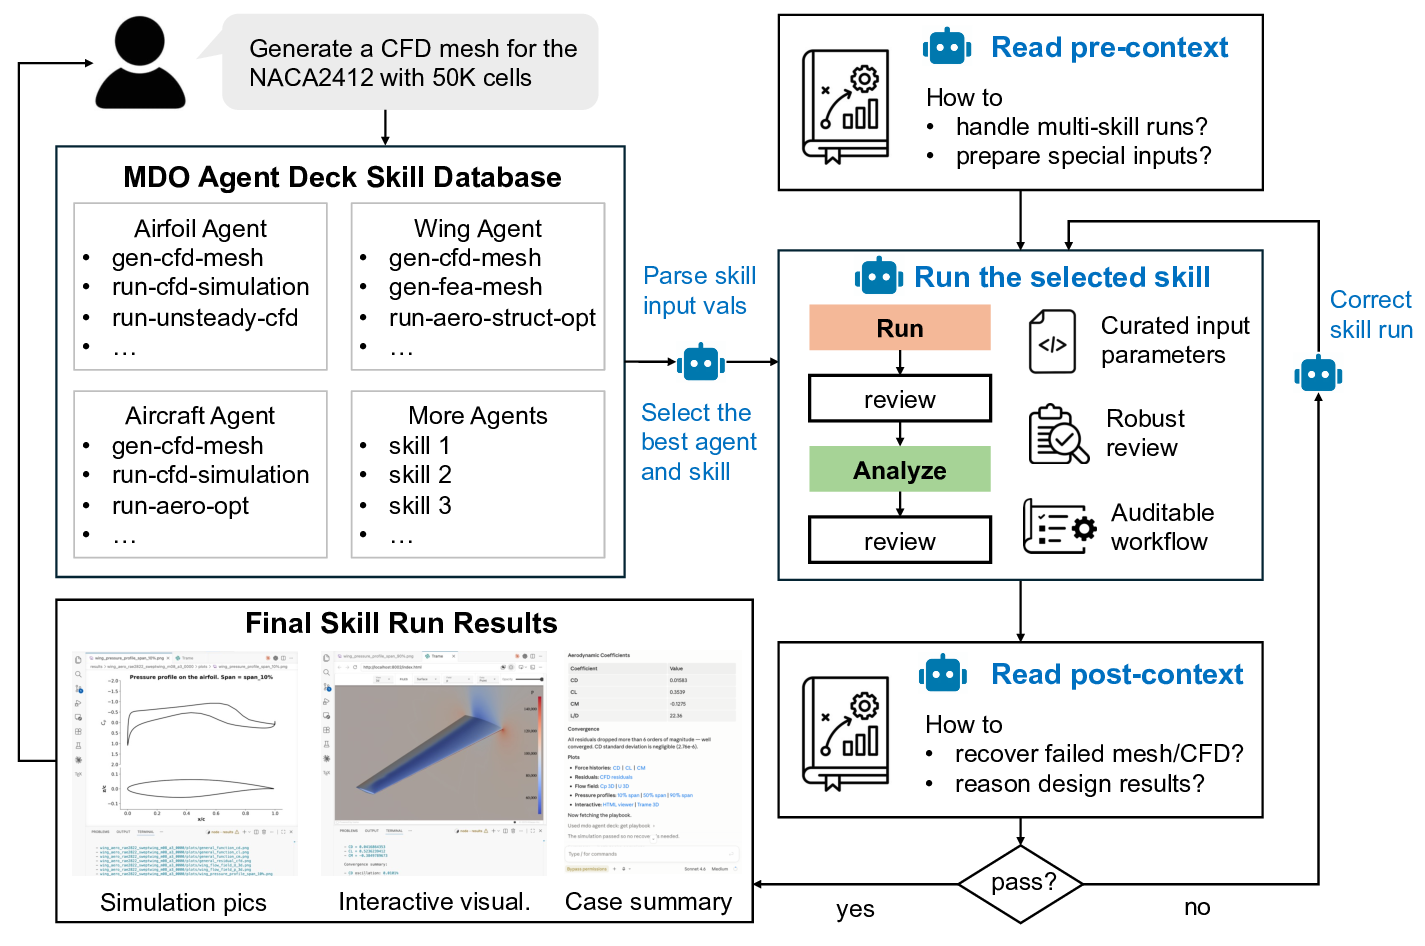
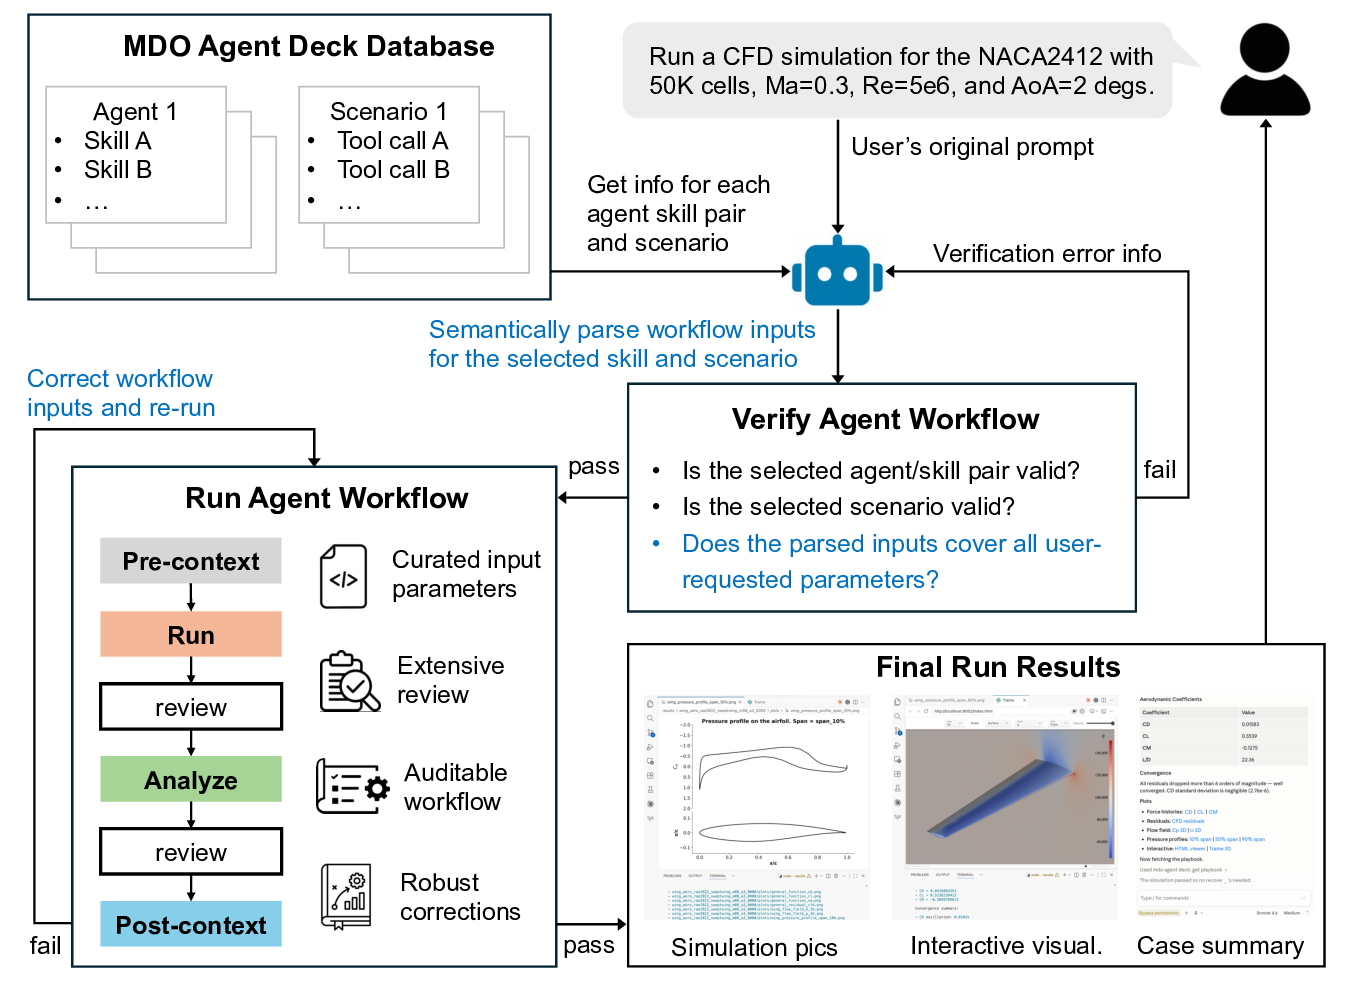
content update

Changed region(s): [[0.0, 0.0, 0.9956, 0.981], [0.9022, 0.0, 0.9956, 0.1533], [0.2178, 0.3679, 0.2489, 0.3985]]

diff --git a/pages/mydoc/mydoc_ai_agent_overview.md b/pages/mydoc/mydoc_ai_agent_overview.md
@@ -22,32 +22,26 @@ The framework is designed to be trustworthy for engineering using the following 
 
 ### How the Framework Works
 
-For each user request/prompt, the agent execution follows a pre-defined run sequence:
+The following figure illustrates the overall architecture of the agentic AI framework for aircraft aerodynamic and aerostructural design. The framework follows a fixed workflow from a user prompt to the final engineering result. Based on the user's prompt, the agent deck first selects the most relevant agent, skill, and scenario from the MDO Agent Deck database. Here we define domain-specific agents for narrowly scoped design problems involving airfoils, wings, and aircraft. Each agent is equipped with skills such as generating CFD meshes, running CFD simulations, and performing aerodynamic optimization. The scenario includes predefined workflows for common tasks, such as running one simulation with one skill, running multiple simulations with one skill, or running multiple simulations with prerequisite and downstream skills.
 
-- A user requests to run an engineering analysis or design case.
-- The MCP server identifies the best domain agent and skill for the user request.
-- It reads skill pre-context to better prepare the case, e.g., how to dynamically prepare input parameters
-- It semantically parses the input information from the user prompt into the skill's input values.
-- It creates a new isolated case folder and copies the pre-defined case configuration files from the selected agent.
-- It runs the selected skill following the **run->review->analyze->review** workflow. All the skill's predefined run commands are executed here.
-- It reads the skill post-context with additional evaluations and instructions to correct potential errors.
-- If everything passes, the final results, including PNG plots, an interactive visualization server, and a case summary, are sent back to the user.
+The agentic framework maximizes the use of predefined, deterministic steps while minimizing the agent's reasoning effort to maximize reliability. In an end-to-end workflow, the agent is responsible only for deciding (blue text in the figure below): (1) which agent–skill pair to use, (2) which scenario to use, (3) what input parameters to provide for that scenario, and (4) how to follow the provided instructions to correct the scenario inputs if a skill encounters an error. All remaining steps in the workflow are fully deterministic.
 
-This review gate after every phase is a key guardrail. If a review fails, the workflow stops and requests correction before moving forward.
+To be more specific, the agent first interprets the user's prompt and selects the skill and scenario that best match the requested task. It then reads the input descriptions associated with the selected skill and semantically maps the parameters specified by the user into the input format required by the scenario workflow. Before executing the workflow, the agent sends the selected skill, scenario, and parsed inputs to the workflow verification tool. This tool verifies that the selected skill and scenario are valid and, critically, that the parsed inputs are fully consistent with the user's request. This verification step ensures that the agent does not omit, add, or modify any user-specified input in a way that could misrepresent the user's intent.
+If the verification passes, the agent executes the predefined steps in the selected scenario workflow fully deterministically. Once the workflow is completed, the agent returns the final results to the user, including simulation figures, access to an interactive visualization server, and a summary of the completed case.
 
-For example, if a user asks:
+For example, if a user asks, `Run a CFD simulation for the NACA2412 airfoil with 50K cells, Ma=0.3, Re=5e6, and AoA=2 degs`, the framework will
 
-`Generate a CFD mesh for NACA0012 at Mach 0.05, Reynolds 20,000, y+ target 50.`
+- Identify the \texttt{airfoil} agent, the \texttt{run-cfd-simulation} skill together with its prerequisite \texttt{generate-cfd-mesh} skill, and the \texttt{single-skill-with-prereq-single-run} scenario that best matches the request.
 
-The execution will look like this:
+- Semantically parses the user-specified parameters into the scenario inputs as \texttt{airfoil\_profile=naca2412}, \texttt{mach\_number=0.3}, \texttt{reynolds\_number=5e6}, \texttt{mesh\_cells=50000}, and \texttt{angle\_of\_attacks=2}. 
 
-- The MCP server identifies the `airfoil` agent and the `generate-cfd-mesh` skill for this request.
-- It reads the pre-context and no special treatment is needed.
-- It semantically parses the user prompt into skill inputs (`airfoil_profile=naca0012`, `mach_number=0.05`, `reynolds_number=20000`, `y_plus_target=50`).
-- It creates a new isolated case folder, e.g., `airfoil_mesh_naca0012_ma005_20k_y50_0000`, and copies all DAFoam configuration files from the airfoil agent into this folder.
-- The `generate-cfd-mesh` skill is executed. In **run**, it copies geometry and mesh configuration files into that folder and run a bash script that contains the predefined mesh generation commands. In **analyze**, it computes mesh quality metrics, verifies whether the mesh quality passes thresholds, and generates mesh plots.
-- It reads the post-context for the `generate-cfd-mesh` skill. If the mesh quality fails, it will follow the instructions to correct it.
-- The mesh plots, interactive visualization servers, and a report regarding the mesh quality and number of mesh cells are passed back to the user.
+- The workflow verification tool confirms that the selected agent, skills, scenario, and parsed inputs are valid and fully consistent with the user's request. 
+
+- Upon successful verification, the job is passed to the run-workflow tool, which first copies a case template from the agent's assets folder and then executes the predefined commands for mesh generation and CFD simulation using the verified inputs.
+
+- If mesh generation or CFD simulation encounters an error, the issue is detected by the review components embedded in the predefined workflow. The agent then follows predefined post-context instructions to adjust only the necessary inputs, for example, by increasing mesh smoothing to address poor mesh quality or preparing a better initial condition to improve CFD convergence. The workflow is then re-executed according to the predefined procedure.
+
+- Once the run passes all required checks, the framework uses pre-defined scripts to generate the final results for the user, including a case summary containing $C_D$, $C_L$, and $C_M$, function and residual convergence histories, flow-field contours, pressure profiles, and an interactive visualization server for exploring the computed flow fields.
 
 <div style="text-align: center;">
 <img src="{{ site.url }}{{ site.baseurl }}/images/tutorials/AI-overview-diagram.png" style="width:900px !important;" />
